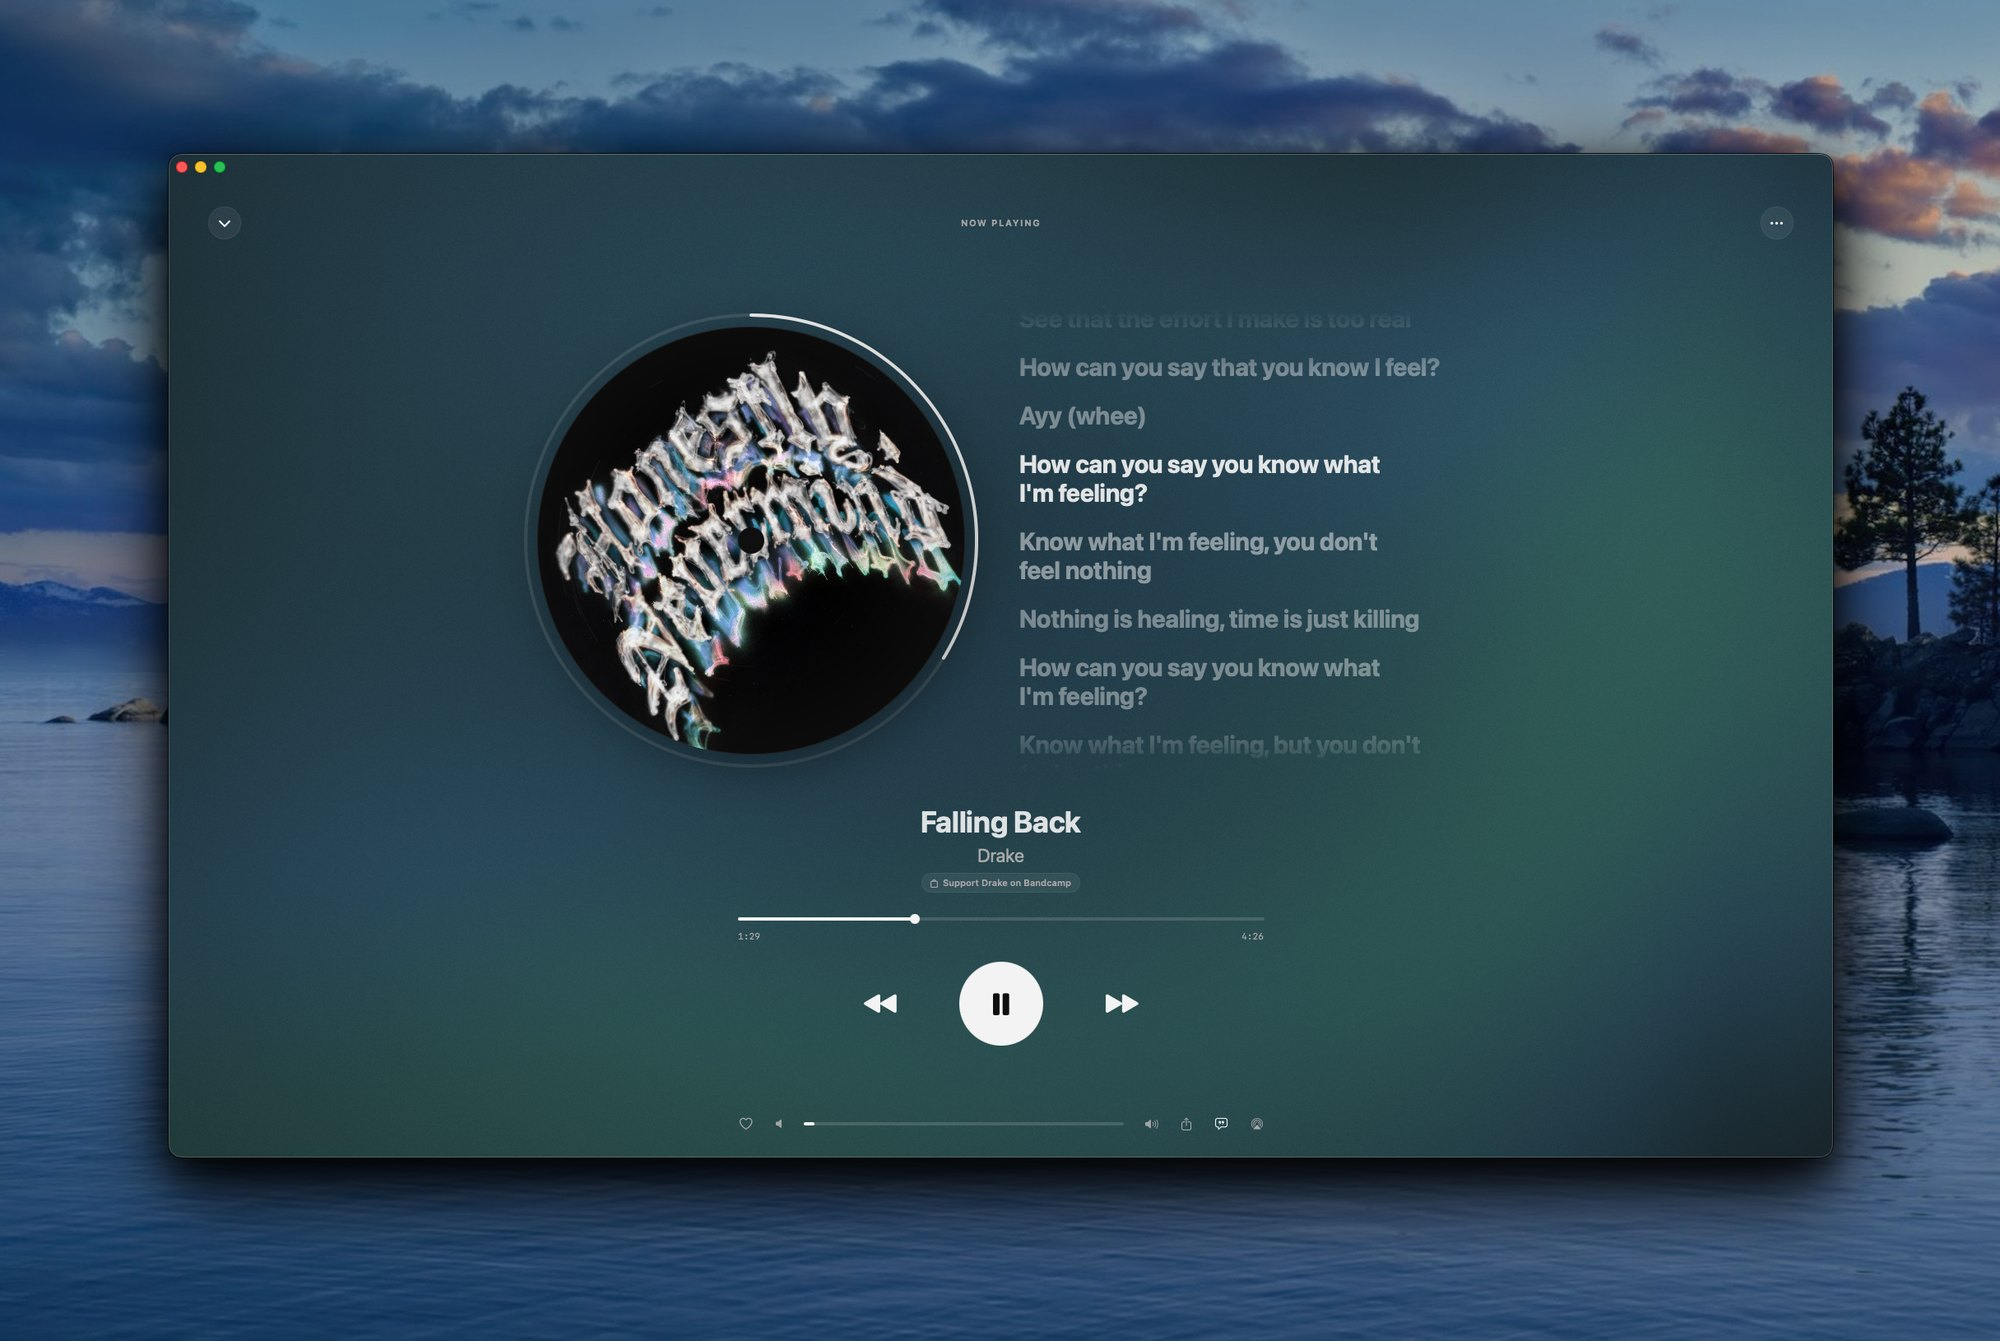
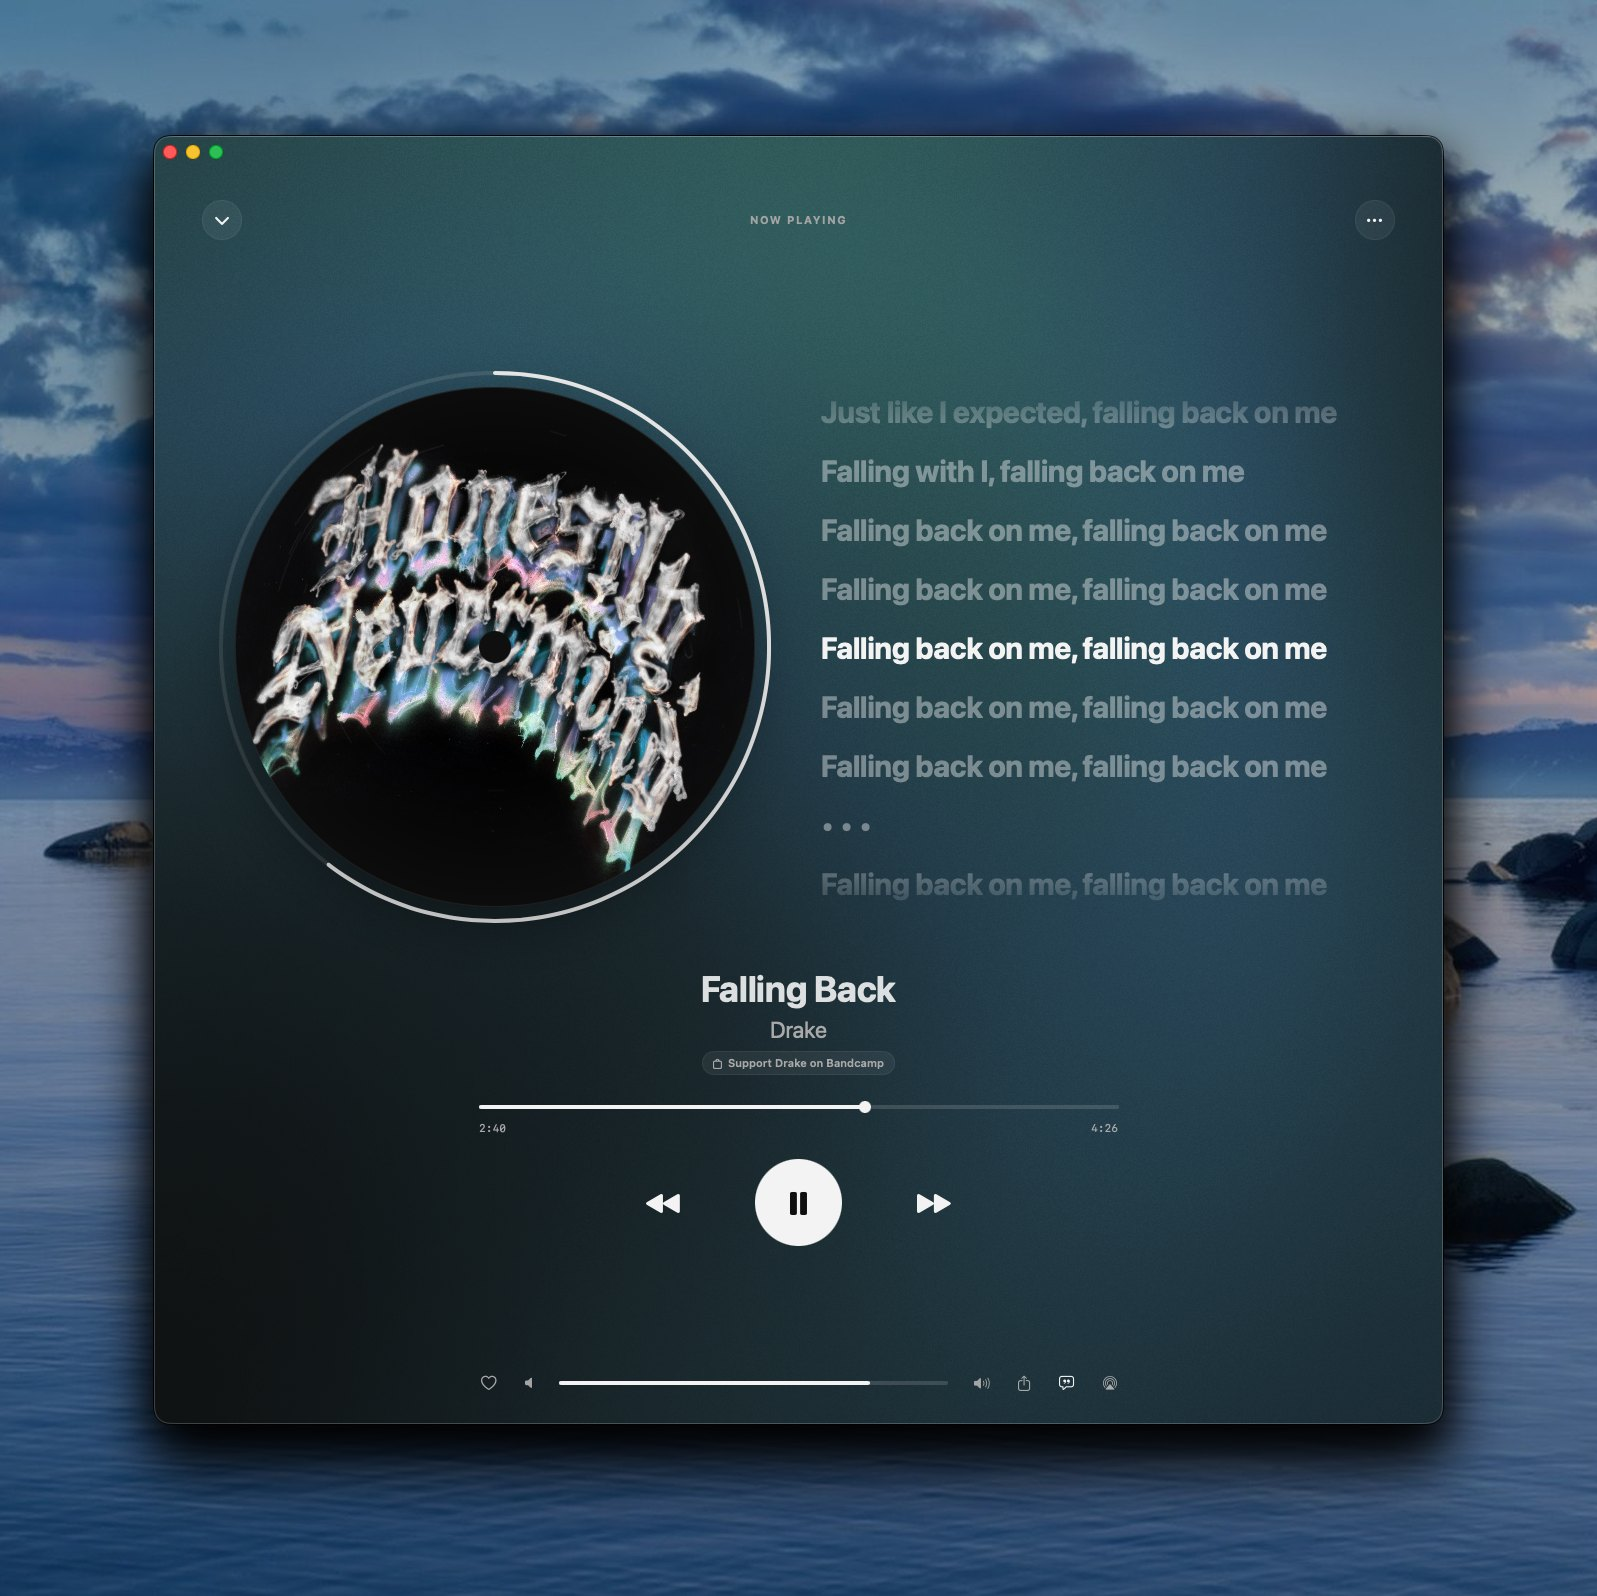
Yoin gallery: swap in the new time-synced lyrics shot (Falling Back), composited on the Tahoe wallpaper; update dimensions

diff --git a/yoin/index.html b/yoin/index.html
@@ -70,7 +70,7 @@
 
       <div class="shots">
         <figure class="shot"><img src="/assets/work/yoin-crate.jpg" width="1790" height="1448" loading="eager" fetchpriority="high" decoding="async" alt="Yoin's Crate view — album covers fanned out in a cover-flow, with a Now Spinning panel showing the current record" /><figcaption>Your collection as a crate — flip through the covers</figcaption></figure>
-        <figure class="shot"><img src="/assets/work/yoin-lyrics.jpg" width="2000" height="1341" loading="lazy" decoding="async" alt="Yoin's Now Playing screen with time-synced lyrics scrolling beside the spinning record" /><figcaption>Now Playing with time-synced lyrics</figcaption></figure>
+        <figure class="shot"><img src="/assets/work/yoin-lyrics.jpg" width="1597" height="1596" loading="lazy" decoding="async" alt="Yoin's Now Playing screen with time-synced lyrics scrolling beside the spinning record" /><figcaption>Now Playing with time-synced lyrics</figcaption></figure>
         <figure class="shot"><img src="/assets/work/yoin-turntable.jpg" width="1790" height="1448" loading="lazy" decoding="async" alt="Yoin's turntable Now Playing — the record on a platter with a DJ speed fader" /><figcaption>A turntable Now Playing with DJ speed control</figcaption></figure>
         <figure class="shot"><img src="/assets/work/yoin-album.jpg" width="1790" height="1448" loading="lazy" decoding="async" alt="Yoin's album view — the track list for an album with play, download and credits" /><figcaption>Every album, with its tracks and credits</figcaption></figure>
         <figure class="shot"><img src="/assets/work/yoin-map.jpg" width="1472" height="1191" loading="lazy" decoding="async" alt="Yoin's collection map — a world map with pins for where each artist is from, and the albums from a selected country" /><figcaption>A world map of where your music comes from</figcaption></figure>
